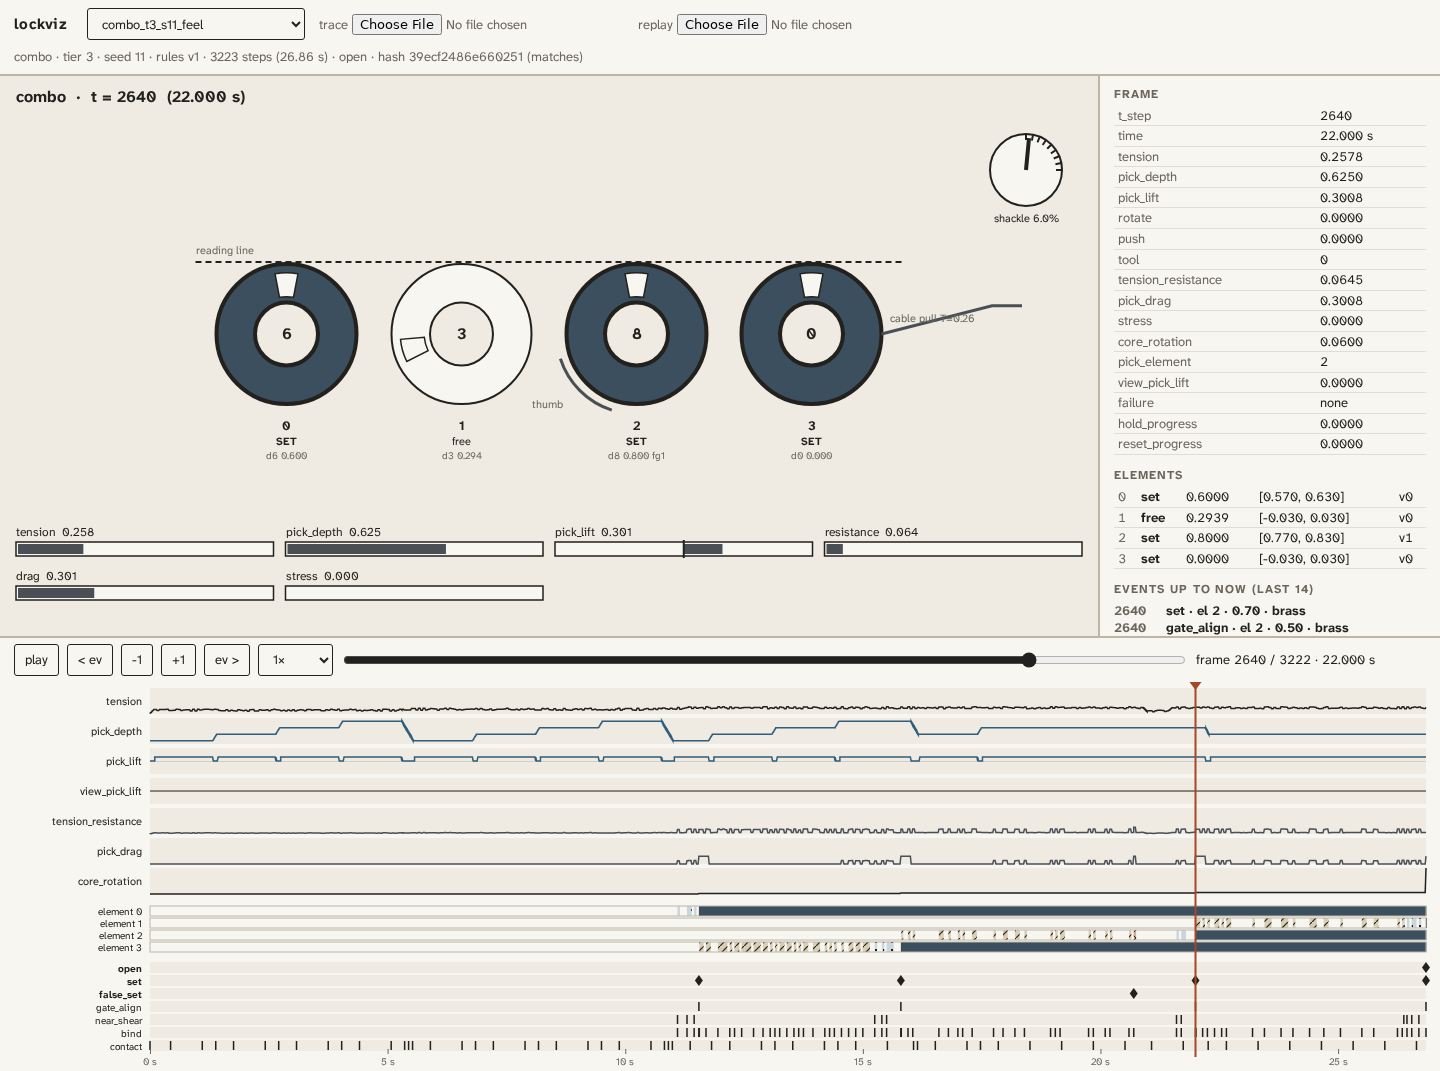
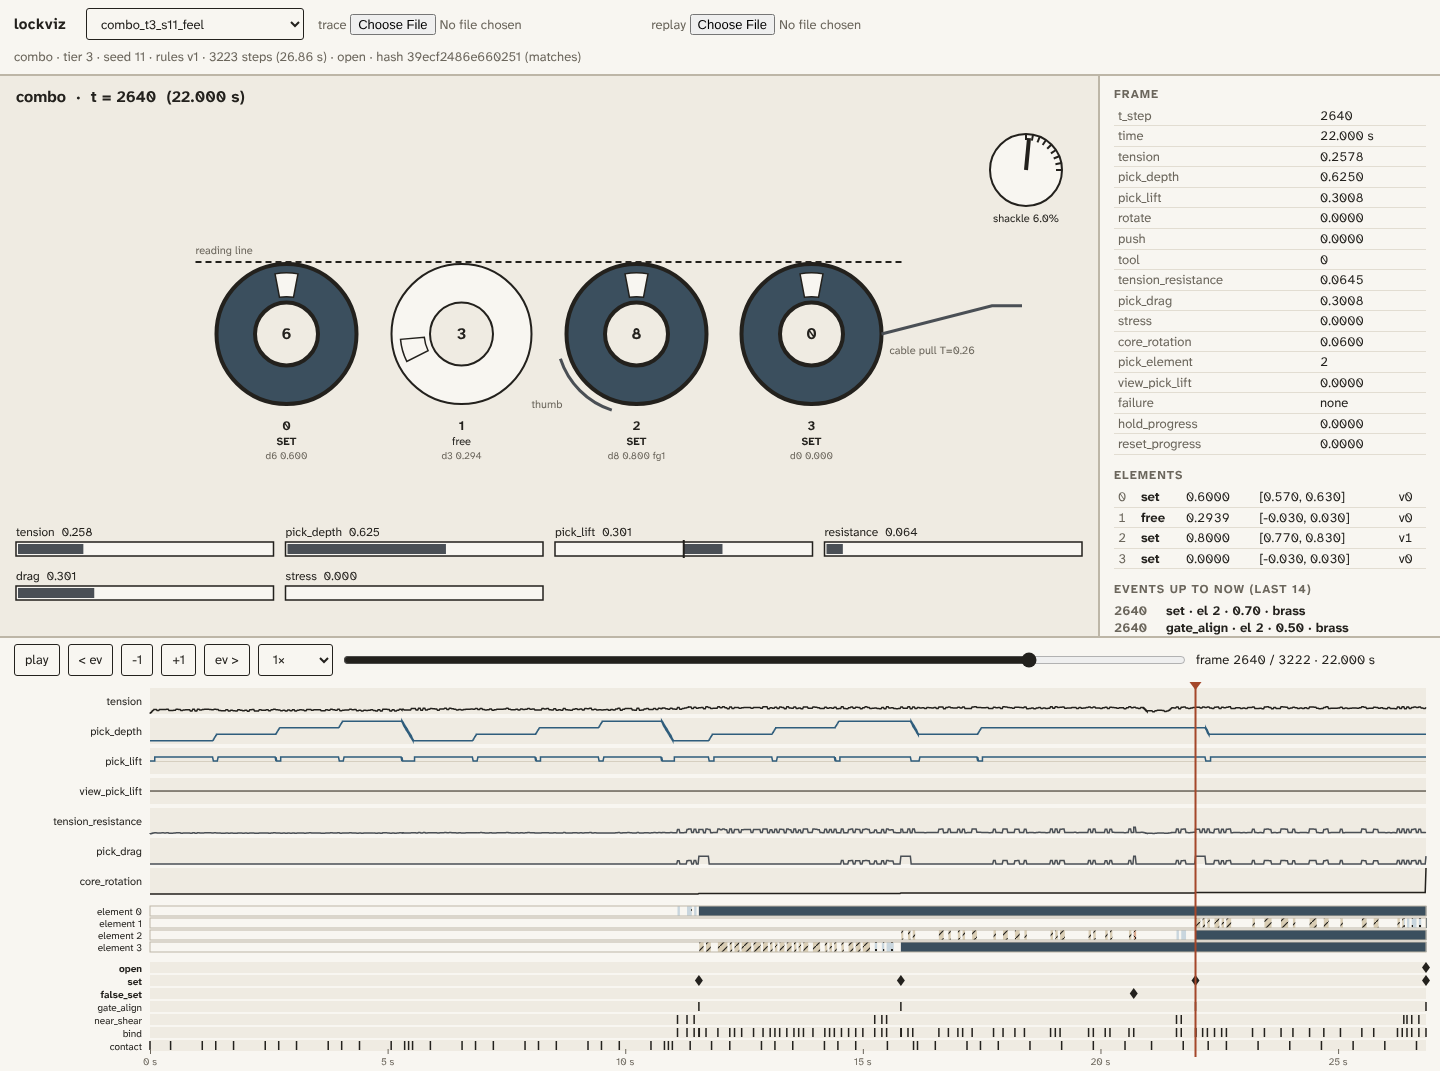
lockviz V03 review: dial_safe crank no longer drawn over the core gauge; fence-line and cable labels moved off the drawing; test run command [skip ci]
Claude-Session: https://claude.ai/code/session_019Hz8MymMLXTKn7rebrh2Zb

diff --git a/mockups/tools/lockviz/families_v06.js b/mockups/tools/lockviz/families_v06.js
@@ -102,9 +102,12 @@ function drawDialSafe(g, box, f) {
   g.fillStyle = '#efebe2';
   g.beginPath(); g.moveTo(x0 - 6, fy + 10); g.lineTo(x0 + 6, fy + 10); g.lineTo(x0, fy + 22); g.closePath(); g.fill(); g.strokeStyle = '#23211d'; g.stroke();
   text(g, allSet ? `fence dropped ${(hp * 100).toFixed(0)}%` : 'fence', x0 - r * 1.3, fy - 8, { size: 11, color: '#6b665c' });
-  readingLine(g, x0 - r * 1.3, x0 + (n - 1) * r * 2.6 + r * 1.3, cy - r - 2, 'fence line');
-  // crank (dial) at the right: angle = integrated crank speed, digit = dial reading
-  const dx = box.x + box.w - 56, dcy = box.y + 56, dr = 34;
+  // label at the right end: above the line it collided with the fence bar (review V03)
+  const fx1 = x0 + (n - 1) * r * 2.6 + r * 1.3;
+  readingLine(g, x0 - r * 1.3, fx1, cy - r - 2, '');
+  text(g, 'fence line', fx1 + 6, cy - r + 2, { size: 11, color: '#6b665c' });
+  // crank (dial) left of the core gauge (drawCore sits at the top-right corner; review V03: they overlapped)
+  const dx = box.x + box.w - 56 - 120, dcy = box.y + 56, dr = 34;
   const da = dialAngleAt(cur);
   g.fillStyle = '#f8f6f1'; g.strokeStyle = '#23211d'; g.lineWidth = 2;
   g.beginPath(); g.arc(dx, dcy, dr, 0, Math.PI * 2); g.fill(); g.stroke();
@@ -144,7 +147,7 @@ function drawCombo(g, box, f) {
   const rot = val(f, 'core_rotation');
   g.strokeStyle = '#4a4f55'; g.lineWidth = 3;
   g.beginPath(); g.moveTo(x0 + (n - 1) * r * 2.5 + r, cy); g.lineTo(box.x + box.w - 90, cy - 30 + rot * 30); g.lineTo(box.x + box.w - 60, cy - 30 + rot * 30); g.stroke();
-  text(g, `cable pull T=${val(f, 'tension').toFixed(2)}`, x0 + (n - 1) * r * 2.5 + r + 8, cy - 12, { size: 11, color: '#6b665c' });
+  text(g, `cable pull T=${val(f, 'tension').toFixed(2)}`, x0 + (n - 1) * r * 2.5 + r + 8, cy + 20, { size: 11, color: '#6b665c' });  // below the cable (review V03)
   drawCore(g, box, f, 'shackle');
 }
 
